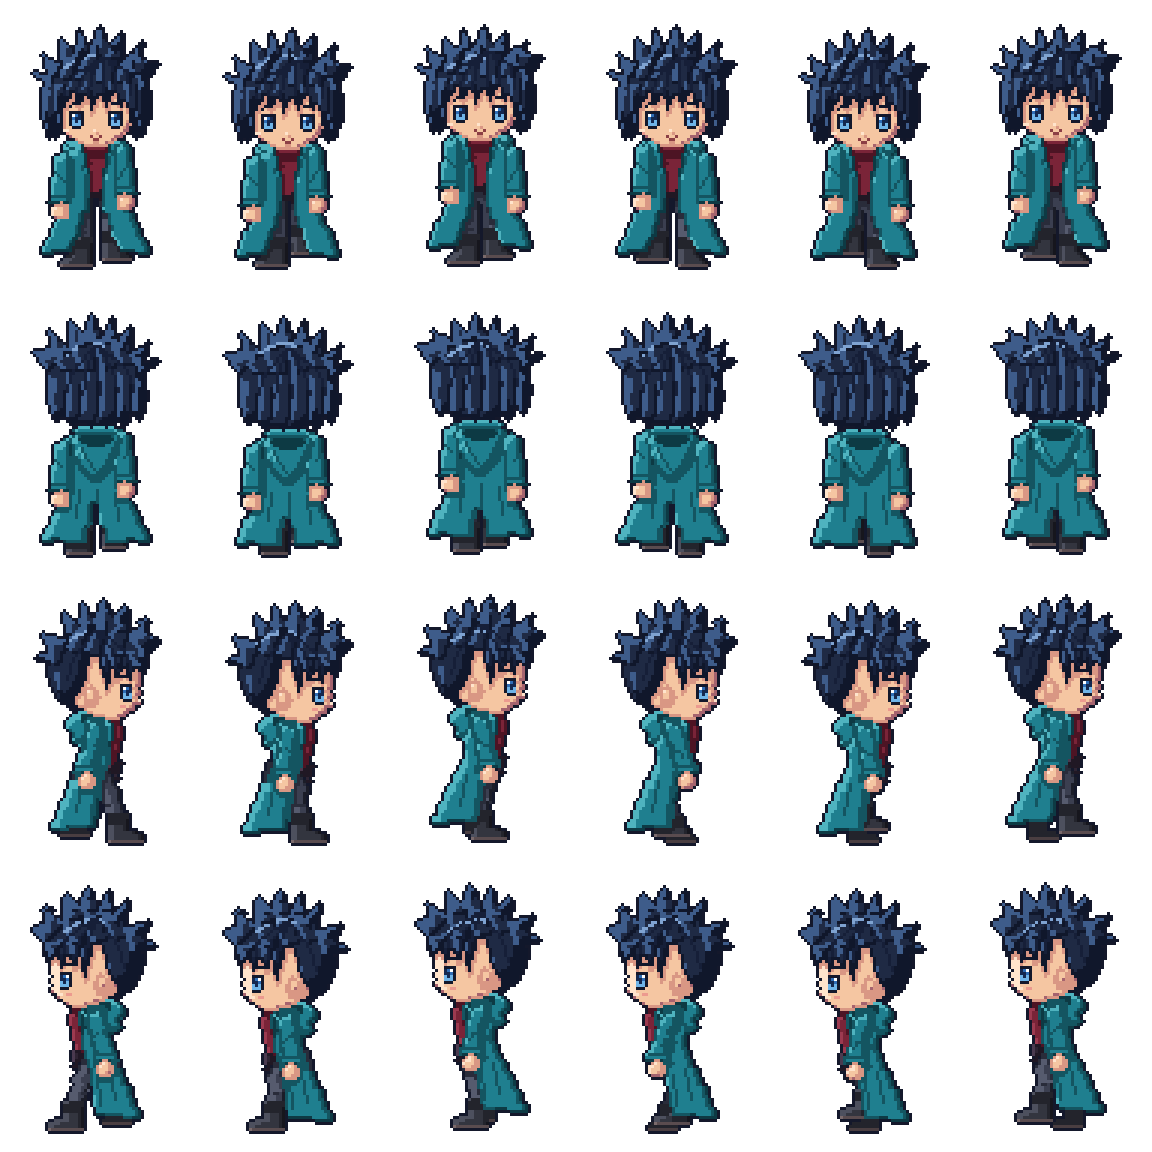
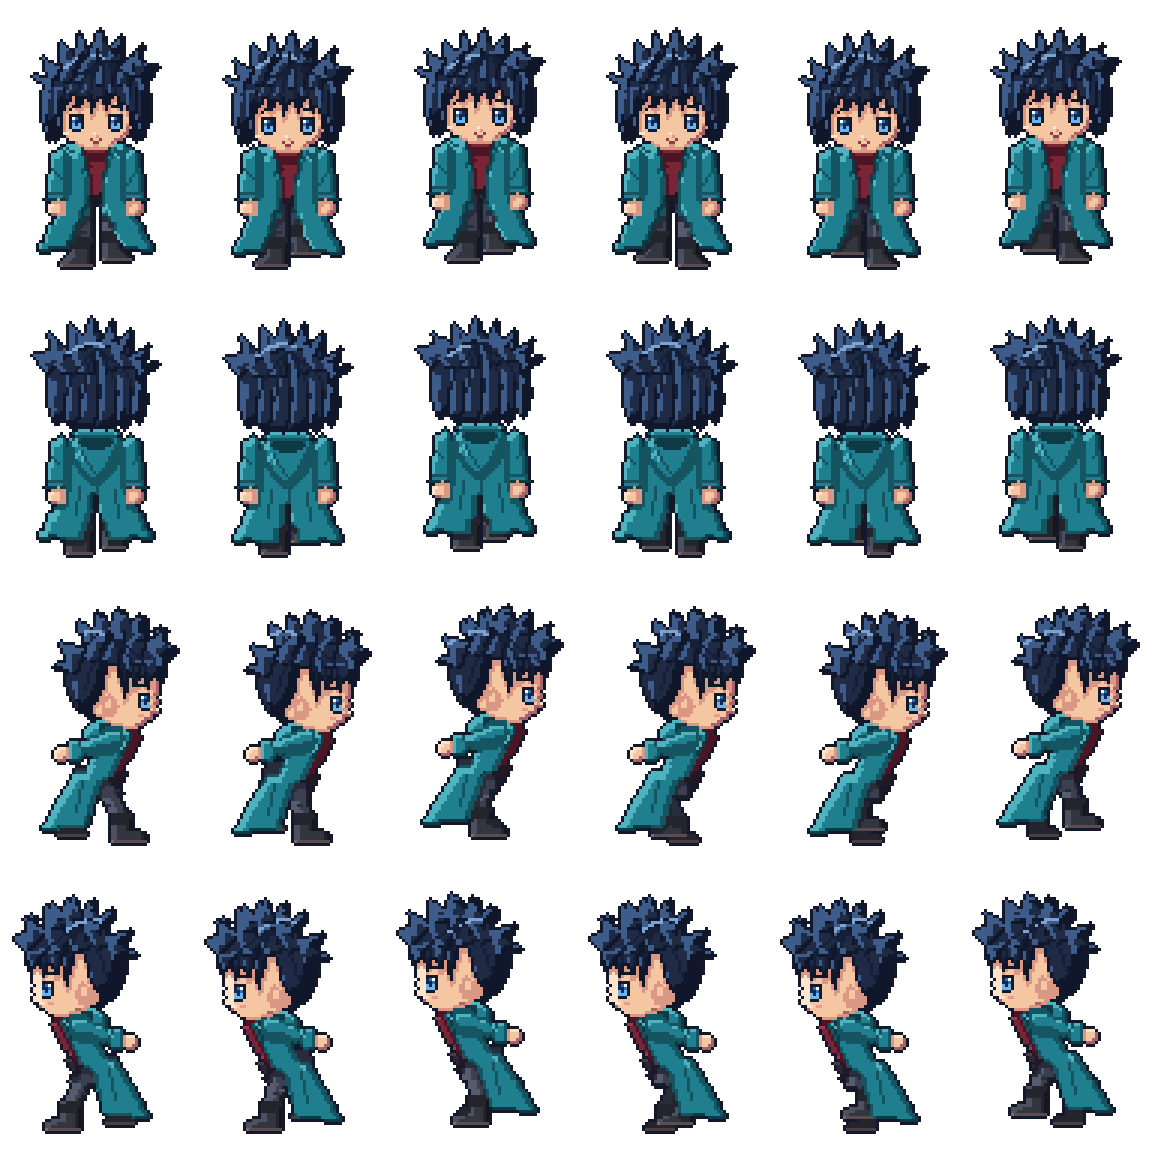
Herói pixel art V30.1: corrida ninja igual à do boneco anterior
Tronco bem inclinado (cabeça 8 px à frente), os dois braços esticados para trás
(desenho próprio do braço de lado), passada longa com joelho subindo, instante no
ar e casaco voando, em 440 ms como o correr do rig. Protótipo V30 arquivado.
Limpeza extra só nos quadros da corrida; caminhada oficial inalterada (0 px).
Validador: rosto fora da contagem de pixel solto e busca de inclinação até 9 px.

Claude-Session: https://claude.ai/code/session_013vLqrVyPBNyjBLYS91kN9N

diff --git a/public/pixelHero.js b/public/pixelHero.js
@@ -339,7 +339,7 @@ function backParts() {
 }
 
 /** Lado direito (perfil): cabeça de perfil com orelha, cabelo com as mesmas 4 pontas, casaco aberto na frente. */
-function sideParts() {
+function sideParts(bracoAtras = false) {
   const P = [];
   // Capuz atrás do pescoço (nas costas do perfil) e a perna/bota de trás.
   P.push(part('capuz', 'casaco', or(ell(25.4, 49.4, 5.4, 4), poly([[21.6, 47], [28, 46.4], [29, 52], [26, 57], [22, 54.6]])), PAL.casaco,
@@ -361,10 +361,18 @@ function sideParts() {
     strokes: [[2, [[27, 68], [25, 78]]], [2, [[31, 70], [30, 80]]]] }));
   P.push(part('lapela', 'casaco', poly([[33, 47.4], [35.6, 48.6], [36.4, 55], [35, 58], [34, 52]]), PAL.casaco, { shade: { l: [0, -2], d: [1, 0] }, group: 'casaco', sep: false }));
   // Braço (o de perto): manga larga pendendo ao lado do corpo, dobra no cotovelo, punho em sino, mão.
+  if (bracoAtras) {
+    // Corrida ninja: braço esticado para trás a partir do ombro, quase na horizontal, mão aberta atrás das costas.
+    P.push(part('manga', 'casaco', poly([[33.4, 48.6], [28, 48.2], [22, 50.6], [17.4, 53.4], [18.6, 57.6], [23.4, 56], [29, 54.6], [33.4, 54]]), PAL.casaco,
+      { shade: { l: [-1, -2], s: [1, 2], d: [1, 1] }, group: 'manga', strokes: [[2, [[25, 53], [23, 54]]]] }));
+    P.push(part('punho', 'casaco', poly([[14.4, 52.6], [19.2, 52], [20.2, 58.2], [15.2, 59.4]]), PAL.casaco, { shade: { l: [-1, -1], s: [1, 1], d: [0, 1] }, group: 'punho' }));
+    P.push(part('mao', 'corpo', ell(12.6, 56.4, 2.6, 2.8), PAL.pele, { shade: { l: [-1, -1], s: [1, 1], d: [1, 1] }, group: 'mao', recv: true }));
+  } else {
   P.push(part('manga', 'casaco', poly([[27.6, 48.4], [32.4, 48.6], [34, 52], [33.8, 57], [34.4, 63.6], [27.2, 63.6], [27.6, 56.6], [26.8, 51]]), PAL.casaco,
     { shade: { l: [-1, -2], s: [2, 1], d: [1, 1] }, group: 'manga', strokes: [[2, [[29, 56], [31, 58]]], [2, [[32, 58], [33, 60]]]] }));
   P.push(part('punho', 'casaco', poly([[26.8, 62.6], [34.6, 62.6], [35, 66], [26.4, 66]]), PAL.casaco, { shade: { l: [0, -1], s: [2, 1], d: [0, 1] }, group: 'punho' }));
   P.push(part('mao', 'corpo', ell(31, 68.4, 3.1, 3), PAL.pele, { shade: { l: [-1, -1], s: [2, 1], d: [1, 1] }, group: 'mao', recv: true, marks: [[33, 67, 0]] }));
+  }
   // Cabelo de trás (nuca), depois a cabeça de perfil com nariz e queixo, a orelha, e o cabelo da frente.
   P.push(part('cabelo_tras', 'cabelo', or(ell(29, 32, 14.6, 13.6), poly([[15.6, 32], [26, 30], [27.4, 45.6], [22, 44], [17.6, 41]])), [PAL.cabelo[1], PAL.cabelo[2], PAL.cabelo[2], PAL.cabelo[2]],
     { shade: { l: [-2, -2], s: [3, 1], d: [1, 1] }, group: 'cabelo', sep: false }));
@@ -508,54 +516,55 @@ export function walkPose(view, k) {
 }
 
 /**
- * Corrida em 6 quadros (protótipo V30): contato, recolhe, voo, contato do outro pé, recolhe, voo.
- * Mesma ideia da caminhada (uma tabela para as 4 vistas), com mais amplitude e uma fase de voo (os dois pés fora do
- * chão). [A avanço, A ergue, B avanço, B ergue, corpo dy]. De lado o avanço é a inclinação da perna no quadril.
+ * Corrida ninja em 6 quadros (V30.1), igual à corrida do boneco anterior (rig v27, `correr` em public/rig.js):
+ * tronco bem inclinado com a cabeça à frente, os DOIS braços esticados para trás (não balançam), passada longa com o
+ * joelho subindo, um instante no ar, a barra do casaco voando para trás. Ciclo de 440 ms, como o anterior.
+ *   [A avanço, A ergue, B avanço, B ergue, corpo dy]  (A = perna da esquerda da tela / a de perto de lado)
  */
 export const RUN = [
-  [5, 0, -5, 2, 0],
-  [2, 0, -3, 4, 1],
-  [-2, 1, 2, 3, -2],
-  [-5, 2, 5, 0, 0],
-  [-3, 4, 2, 0, 1],
-  [2, 3, -2, 1, -2],
+  [6, 0, -6, 2, 0],
+  [3, 0, -4, 4, 1],
+  [-2, 2, 4, 5, -2],
+  [-6, 2, 6, 0, 0],
+  [-4, 4, 3, 0, 1],
+  [4, 5, -2, 2, -2],
 ];
-export const RUN_MS = 90; // por quadro: 540 ms por ciclo (em avaliação; ver a conta na ficha)
+export const RUN_MS = [70, 80, 70, 70, 80, 70]; // 440 ms por ciclo, como o `correr` do rig (ms: 440)
 
 export function runPose(view, k) {
   const n = RUN.length, q = k % n;
   const [aX, aY, bX, bY, bob] = RUN[q];
   const prev = RUN[(q + n - 1) % n][4];
   const lag = bob > prev ? -1 : bob < prev ? 1 : 0;   // pontas do cabelo atrasam o sobe-e-desce
+  const tremor = q % 3 === 1 ? 1 : 0;                  // braços quase parados: só 1 px de tranco no "recolhe"
   if (view === 'direita' || view === 'esquerda') {
     const f = view === 'direita' ? 1 : -1;
-    const L = 2 * f;                                   // tronco inclinado: o peito e a cabeça 2 px à frente do quadril
+    const L = 8 * f;                                   // inclinação: cabeça e ombros 8 px à frente do quadril e 3 px abaixo
     return {
-      corpo: { dy: bob, sh: L, shTop: 66, shBot: 50 },
-      // Pontas do cabelo: atrasam e ficam 1 px para trás com o vento.
-      cabelo: { dx: L, dy: bob, tip: { y: 17, dy: lag, dx: -f } },
+      corpo: { dy: bob + 3, sh: L, shTop: 66, shBot: 50 },
+      cabelo: { dx: L, dy: bob + 3, tip: { y: 17, dy: lag, dx: -2 * f } },
       perna_f: { sh: f * aX, shTop: 66, shBot: 80, dy: -aY },
       perna_t: { sh: f * bX, shTop: 66, shBot: 80, dy: -bY },
-      // Braço: balanço maior, oposto à perna de perto, preso no ombro que foi junto com o tronco.
-      braco: { dx: L, sh: -f * Math.round(aX * 0.8), shTop: 50, shBot: 63, dy: bob },
-      // Barra do casaco voa para trás: 3 px, e 4 px no voo.
-      aba: { dy: bob, sh: -f * (bob === -2 ? 4 : 3) },
+      // Braço esticado para trás a partir do ombro (que foi junto com o tronco): a mão fica atrás do quadril.
+      // Braço esticado para trás (desenho próprio, sideParts(true)); só acompanha o ombro e dá 1 px de tranco.
+      bracoAtras: true, limpeza: true,
+      braco: { dx: L, dy: bob + 3 - tremor },
+      aba: { dy: bob, sh: -f * (bob === -2 ? 7 : 6) },
     };
   }
-  // De frente e de costas: o tronco inclinado aparece como a cabeça e o peito 1 px mais baixos.
+  // De frente e de costas: o tronco inclinado aparece como cabeça e peito 2 px mais baixos; os braços vão para trás e
+  // para fora (as mãos abrem 2 px dos lados do corpo e sobem 1 px); joelhos sobem bem (até 5 px); abas voam abertas.
   const contato = q === 0 || q === 3;
-  const aFrente = aX > 0, bFrente = bX > 0;
   return {
-    corpo: { dy: bob + 1 },
-    cabelo: { dy: bob + 1, tip: { y: 17, dy: lag } },
+    limpeza: true,
+    corpo: { dy: bob + 2 },
+    cabelo: { dy: bob + 2, tip: { y: 17, dy: lag } },
     perna_e: { dx: contato ? -1 : 0, dy: -aY },
     perna_d: { dx: contato ? 1 : 0, dy: -bY },
-    // Braço oposto à perna da frente sobe 2 px e entra 1 px (vem para o peito); o outro desce 1 px e abre 1 px.
-    braco_e: bFrente ? { dx: 1, dy: bob + 1 - 2 } : { dx: -1, dy: bob + 1 + 1 },
-    braco_d: aFrente ? { dx: -1, dy: bob + 1 - 2 } : { dx: 1, dy: bob + 1 + 1 },
-    // Casaco reage à velocidade: as abas abrem sempre 1 px, 2 px no contato.
-    aba_e: { dy: bob + 1, sh: contato ? -2 : -1 },
-    aba_d: { dy: bob + 1, sh: contato ? 2 : 1 },
+    braco_e: { dx: -2, dy: bob + 1 - tremor },
+    braco_d: { dx: 2, dy: bob + 1 - tremor },
+    aba_e: { dy: bob, sh: contato ? -3 : -2 },
+    aba_d: { dy: bob, sh: contato ? 3 : 2 },
   };
 }
 
@@ -566,10 +575,10 @@ const hex = (s) => [parseInt(s.slice(1, 3), 16), parseInt(s.slice(3, 5), 16), pa
 export function renderHeroFront(hairKey = 'A') { return renderHero(hairKey, 'frente'); }
 
 /** Peças (de trás para a frente) e carimbos do rosto de uma vista. */
-function viewParts(hairKey, view) {
+function viewParts(hairKey, view, opts = {}) {
   if (view === 'esquerda') {
     // Lado esquerdo: a geometria do direito espelhada ANTES do sombreado, para a luz continuar vindo da esquerda.
-    const { parts, stamps } = viewParts(hairKey, 'direita');
+    const { parts, stamps } = viewParts(hairKey, 'direita', opts);
     const mm = (m) => { const r = new Uint8Array(W * H); for (let y = 0; y < H; y++) for (let x = 0; x < W; x++) r[y * W + x] = m[y * W + (W - 1 - x)]; return r; };
     return {
       parts: parts.map((p) => ({ ...p, mask: mm(p.mask), subs: p.subs.map(mm), marks: p.marks.map(([x, y, t]) => [W - 1 - x, y, t]),
@@ -578,7 +587,7 @@ function viewParts(hairKey, view) {
     };
   }
   if (view === 'costas') return { parts: backParts(), stamps: [] };
-  if (view === 'direita') return { parts: sideParts(), stamps: sideStamps() };
+  if (view === 'direita') return { parts: sideParts(opts.bracoAtras), stamps: sideStamps() };
   const parts = [...bodyParts()];
   // O cabelo de trás vai antes da cabeça; mechas e franja, depois.
   const hair = HAIR[hairKey]();
@@ -592,7 +601,7 @@ export const VIEWS = ['frente', 'costas', 'direita', 'esquerda'];
 
 /** Monta o boneco numa vista. Devolve { w, h, rgba, layers: { nome: rgba } }. */
 export function renderHero(hairKey = 'C', view = 'frente', pose = null) {
-  const base = viewParts(hairKey, view);
+  const base = viewParts(hairKey, view, { bracoAtras: !!(pose && pose.bracoAtras) });
   const { parts, stamps } = pose ? posed(base, pose) : base;
   // Sombreado em conjunto: peças separadas para animar (pernas, botas) testam a luz contra a união com as irmãs.
   const byName = new Map(parts.map((p) => [p.name, p]));
@@ -679,6 +688,19 @@ export function renderHero(hairKey = 'C', view = 'frente', pose = null) {
     const cnt = {}; for (const j of nb) if (col[j] && same(own[j], own[i])) cnt[col[j]] = (cnt[col[j]] || 0) + 1;
     const best = Object.entries(cnt).sort((a, b) => b[1] - a[1]).find(([, n]) => n >= (parts[own[i]].layer === 'cabelo' ? 2 : 3));
     if (best) { col[i] = best[0]; tone[i] = parts[own[i]].pal.indexOf(best[0]); }
+  }
+
+  // Limpeza extra das poses inclinadas (corrida): a borda inclinada em degraus deixa pixels sem nenhum vizinho da mesma
+  // cor, nem na diagonal. Viram a cor mais comum entre os vizinhos em cruz da mesma peça. Não roda na pose parada nem
+  // na caminhada oficial (congelada).
+  if (pose && pose.limpeza) for (let y = 1; y < H - 1; y++) for (let x = 1; x < W - 1; x++) {
+    const i = y * W + x; if (!col[i] || keep.has(i)) continue;
+    let alone = true;
+    for (let dy = -1; dy <= 1 && alone; dy++) for (let dx = -1; dx <= 1; dx++) if ((dx || dy) && col[i + dy * W + dx] === col[i]) { alone = false; break; }
+    if (!alone) continue;
+    const cnt = {}; for (const j of [i - 1, i + 1, i - W, i + W]) if (col[j] && same(own[j], own[i])) cnt[col[j]] = (cnt[col[j]] || 0) + 1;
+    const best = Object.entries(cnt).sort((a, b) => b[1] - a[1])[0];
+    if (best && best[1] >= 2) { col[i] = best[0]; tone[i] = parts[own[i]].pal.indexOf(best[0]); }
   }
 
   // Brilho do cabelo: arco de 2 px acompanhando a curva do alto da cabeça (só no tom de luz/base).

diff --git a/arte/personagem-pixel/validar_andar.py b/arte/personagem-pixel/validar_andar.py
@@ -8,6 +8,7 @@ VS = ['frente', 'costas', 'direita', 'esquerda']; N = 6
 MS = int(sys.argv[3]) if len(sys.argv) > 3 else 125
 VOO = {int(x) for x in sys.argv[4].split(',')} if len(sys.argv) > 4 else set()
 OUT = (20, 24, 43)
+ROSTO = {(255, 255, 255), (20, 40, 79), (47, 109, 181), (111, 180, 232), (140, 63, 69), (236, 154, 143), (16, 23, 43), (217, 151, 132), (255, 228, 204)}
 def load(v, k): return Image.open(f'{pasta}/{pref}_{v}_{k}.png').convert('RGBA')
 def px(im): return im.load()
 ok = True
@@ -26,7 +27,7 @@ for v in VS:
     def bob(p):
         best = None
         for dy in range(-3, 4):
-            m = max(sum(1 for y in range(34, 57) for x in range(16, 48) if p[x + dx, y + dy] == neutro[x, y]) for dx in range(-3, 4))
+            m = max(sum(1 for y in range(34, 57) for x in range(16, 48) if p[x + dx, y + dy] == neutro[x, y]) for dx in range(-9, 10))
             if best is None or m > best[0]: best = (m, dy)
         return best[1]
     heads = [bob(p) for p in P]
@@ -37,6 +38,7 @@ for v in VS:
             for x in range(1, 63):
                 q = p[x, y]
                 if q[3] == 0 or q[:3] == OUT: continue
+                if q[:3] in ROSTO: continue  # carimbos do rosto (olhos, boca, nariz, blush) são desenho
                 if 33 <= y <= 46 and 18 <= x <= 46: continue
                 # solto = nenhum dos 8 vizinhos tem a mesma cor (traço diagonal de 1 px é desenho, não sujeira)
                 if all(p[x + dx, y + dy] != q for dx in (-1, 0, 1) for dy in (-1, 0, 1) if dx or dy): c += 1

diff --git a/docs/ficha-tecnica-heroi.md b/docs/ficha-tecnica-heroi.md
@@ -123,33 +123,32 @@ Medição da V28 nas 4 vistas (pixels opacos, com contorno):
   - Registro V29.1 → V29.2: abas abrindo no contato e na descida (antes balançavam juntas para um lado só), braço
     sempre com o mesmo deslocamento, velocidade 660 → 750 ms.
 
-- **Correr (`RUN`, protótipo V30, em avaliação):** 6 poses únicas por direção, 24 quadros, 90 ms por quadro =
-  540 ms por ciclo (proposta). Contato, recolhe, **voo** (os 2 pés fora do chão, quadros 2 e 5), contato do outro
-  pé, recolhe, voo. Corpo 0/+1/−2 (3 px de sobe-e-desce, contra 2 px na caminhada).
-  - Lado: tronco inclinado (o peito e a cabeça 2 px à frente do quadril, inclinação entre as linhas 66 e 50; a
-    cabeça anda inteira, sem deformar). Pés a 5 px para a frente/trás (3 na caminhada) e até 4 px do chão. Braço com
-    balanço de 4 px. Barra do casaco voa 3 px para trás, 4 px no voo. Pontas do cabelo 1 px para trás e com atraso.
-  - Frente e costas: cabeça e peito 1 px mais baixos (o tronco inclinado visto de frente). Pés sobem até 4 px. Braço
-    oposto à perna da frente sobe 2 px e entra 1 px; o outro desce 1 px e abre 1 px. Abas sempre abertas 1 px, 2 px
-    no contato.
-  - Conta da passada (1 casa = 92 / 1,5 ≈ 61,3 px do boneco; o pé de apoio recua 6 px por passo andando e 10 px
-    correndo):
+- **Correr (`RUN`, V30.1, em avaliação): igual à corrida do boneco anterior** (rig v27, `correr` em `public/rig.js`),
+  por decisão do Victor. O protótipo V30 (braços balançando, 540 ms) foi arquivado em
+  `arte/personagem-pixel/v30_corrida/arquivo_prototipo_540ms/`.
+  - Como no anterior: corrida ninja com o tronco bem inclinado (de lado, cabeça e ombros 8 px à frente do quadril e
+    3 px abaixo; a cabeça anda inteira), os **dois braços esticados para trás** (de lado, um desenho próprio do braço
+    quase na horizontal, com a mão atrás das costas; de frente e de costas, as mãos abrem 2 px dos lados), passada
+    longa (pé a 6 px para a frente/trás, joelho subindo até 5 px), um instante no ar (quadros 2 e 5) e a barra do
+    casaco voando para trás (6 px, 7 px no voo). **Ciclo de 440 ms**, o mesmo do anterior: quadros de 70/80 ms
+    (70, 80, 70, 70, 80, 70).
+  - 6 poses únicas por direção, 4 direções = 24 quadros. Limpeza extra só nos quadros da corrida (as bordas
+    inclinadas em degrau deixavam pixels sem vizinho da mesma cor).
+  - Conta da passada (1 casa ≈ 61,3 px; o pé de apoio recua 12 px por passo correndo e 6 px andando):
 
-    | | Caminhada | Corrida 480 ms | **Corrida 540 ms** | Corrida 600 ms |
-    |---|---|---|---|---|
-    | Velocidade no jogo | 5 casas/s (307 px/s) | 8 casas/s (491 px/s) | 8 casas/s | 8 casas/s |
-    | Passos por segundo | 2,67 | 4,17 (1,56x) | **3,70 (1,39x)** | 3,33 (1,25x) |
-    | Distância por passo | 1,88 casa | 1,92 casa (1,02x) | **2,16 casas (1,15x)** | 2,40 casas (1,28x) |
-    | Pé desenhado por ciclo | 12 px | 20 px | 20 px | 20 px |
-    | Deslocamento por ciclo | 230 px | 236 px | **265 px** | 294 px |
-    | Deslizamento (desloc. / pé) | 19,2x | 11,8x | **13,2x** | 14,7x |
+    | | Caminhada 750 ms | Corrida 440 ms |
+    |---|---|---|
+    | Velocidade no jogo | 5 casas/s (307 px/s) | 8 casas/s (491 px/s), 1,6x |
+    | Passos por segundo | 2,67 | 4,55 (1,70x) |
+    | Distância por passo | 1,88 casa | 1,76 casa (0,94x) |
+    | Pé desenhado por ciclo | 12 px | 24 px |
+    | Deslocamento por ciclo | 230 px | 216 px |
+    | Deslizamento (desloc. / pé) | 19,2x | 9,0x |
 
-    A corrida é 1,6x mais rápida que a caminhada. Corredores de verdade ganham velocidade com passo mais rápido **e**
-    mais longo; 540 ms divide isso (1,39 x 1,15 = 1,6). 480 ms seria uma caminhada acelerada (o mesmo passo,
-    só mais rápido); 600 ms deixa o passo lento demais para parecer corrida. O deslizamento do pé cai de 19x para 13x
-    (o pé desenhado anda 1,7x mais), então a corrida patina menos que a caminhada.
-  - Integração: o quadro avança pela distância (1 ciclo a cada 4,32 casas na corrida, 3,75 na caminhada), mas a
-    duração-alvo do ciclo (540 / 750 ms) é que define a passada. Isso só fecha de verdade no jogo, com o boneco novo.
+    A corrida parece mais rápida pela cadência (1,7x), pela postura e pelo pé desenhado com o dobro do curso; o
+    deslizamento cai para menos da metade. A distância por passo fica um pouco menor que andando (0,94x): é o preço de
+    manter os 440 ms do anterior. Com 8 casas/s, o quadro avança a cada 0,59 casa (1 ciclo a cada 3,52 casas).
+
 - **Achado na validação (caminhada oficial, não corrigido):** com a regra mais rígida de pixel solto (nenhum vizinho
   da mesma cor, nem na diagonal), o quadro 0 do lado direito tem 6 pixels soltos a mais que a pose parada (punho,
   calça e barra inclinados). Correção possível: a limpeza também nos quadros inclinados. Aguarda decisão.
